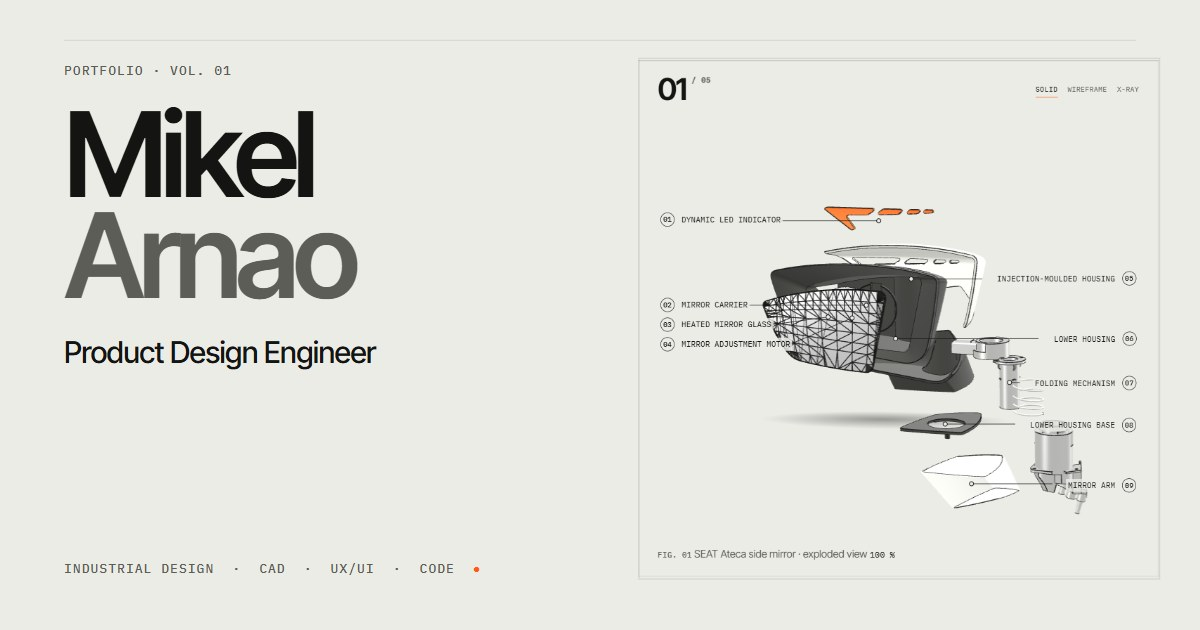
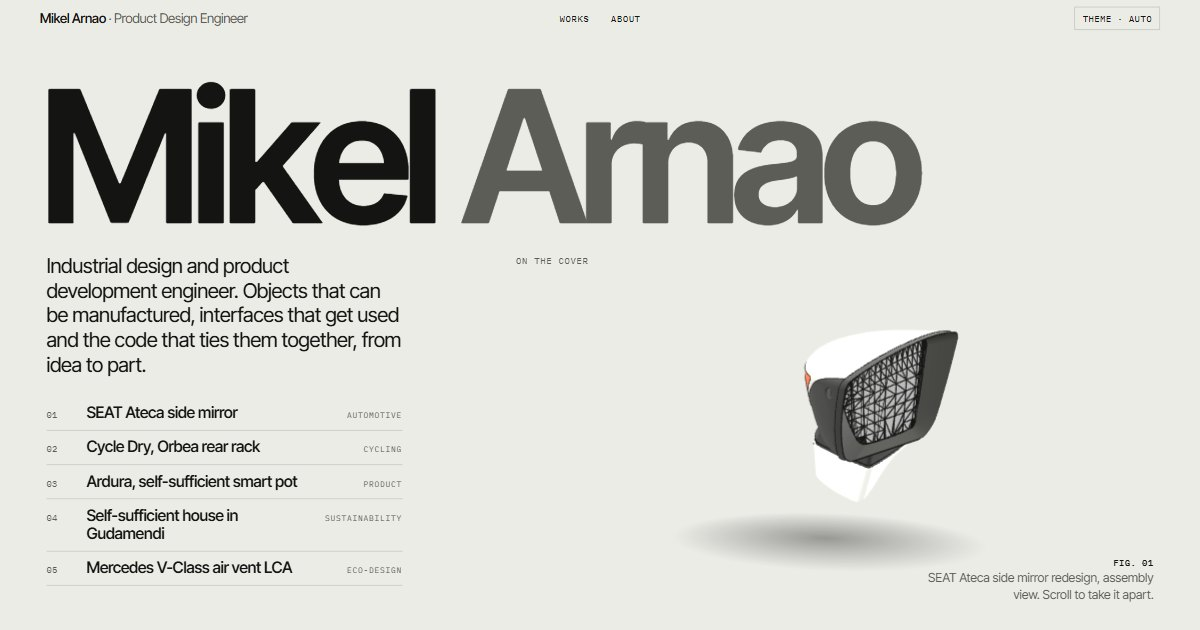
Share card from the real cover; Vercel Web Analytics
img/og.jpg is now rendered by npm run og from the built home cover, so it
shows the cover (name, intro, project list, cover model) instead of the first
project's plate. Vercel builds load Web Analytics.

diff --git a/README.md b/README.md
@@ -7,7 +7,7 @@ Product Design Engineer portfolio. Static site.
 - `index.html`: the site's template, CSS and JS. The build fills in the content. Routes: `/`, `/works/`, `/about/` and `/works/<project-id>/`, plus `/<locale>/…` for each extra locale. Old `#<route>` links redirect to these. Opening it directly from disk no longer works: use the build.
 - `tools/build-pages.mjs`: builds `dist/` from `content/` and `index.html`. It writes one static page per route and locale, each with its view pre-rendered and its own title, description, canonical, hreflang, Open Graph/Twitter tags and JSON-LD. It also writes `404.html`, `sitemap.xml`, `robots.txt` and the CMS (`admin/`). No dependencies. `SITE_URL` sets the absolute URL (default: https://www.mikelarnao.com).
 - `tools/content.mjs`: reads `content/` for the build scripts. `tools/cms-config.mjs`: writes the CMS page and its `config.json`, generated from the content.
-- `favicon.svg`, `img/og.jpg`: favicon and default share image (1200×630).
+- `favicon.svg`, `img/og.jpg`: favicon and default share image (1200×630, the home cover; `npm run og` renders it).
 - `tools/build-og.mjs`: uses the installed Chrome to render `img/og/<project-id>.jpg` (a 1200×630 share card per project), `apple-touch-icon.png` and `favicon-32.png`. Run it after changing a project's title, subtitle or cover, or the favicon (`cd tools && npm install && npm run og`), then commit the images.
 - `img/`: project photos (CMS uploads land here too).
 - `models/`: CAD models (SEAT mirror, Ardura, Orbea rack).
